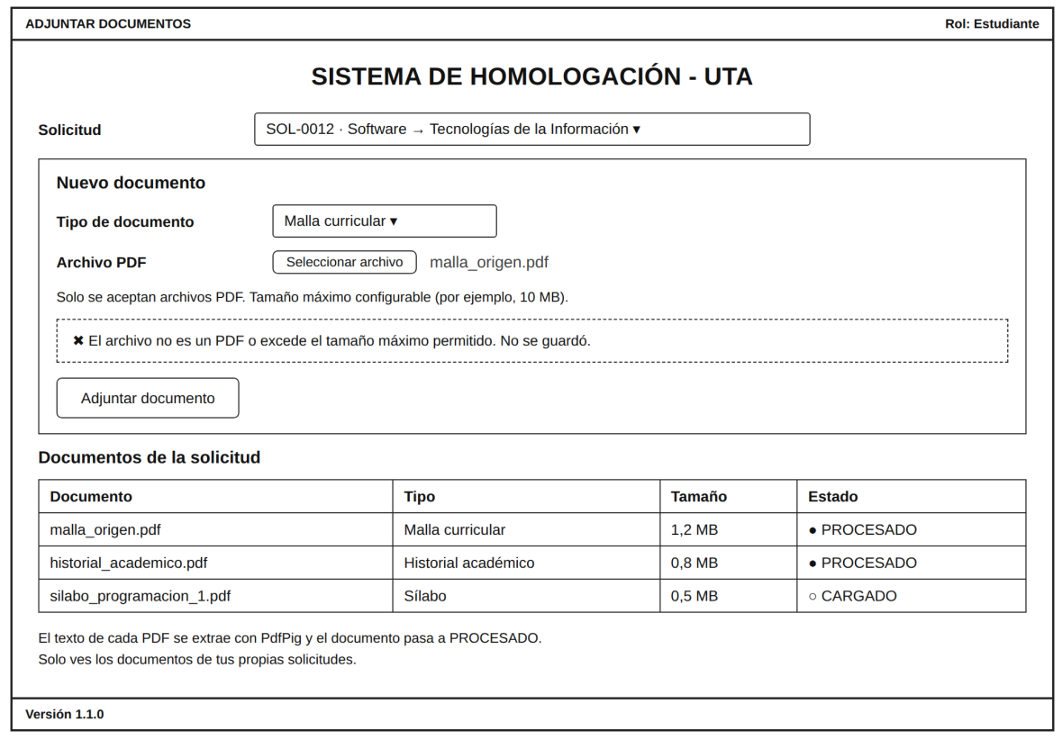
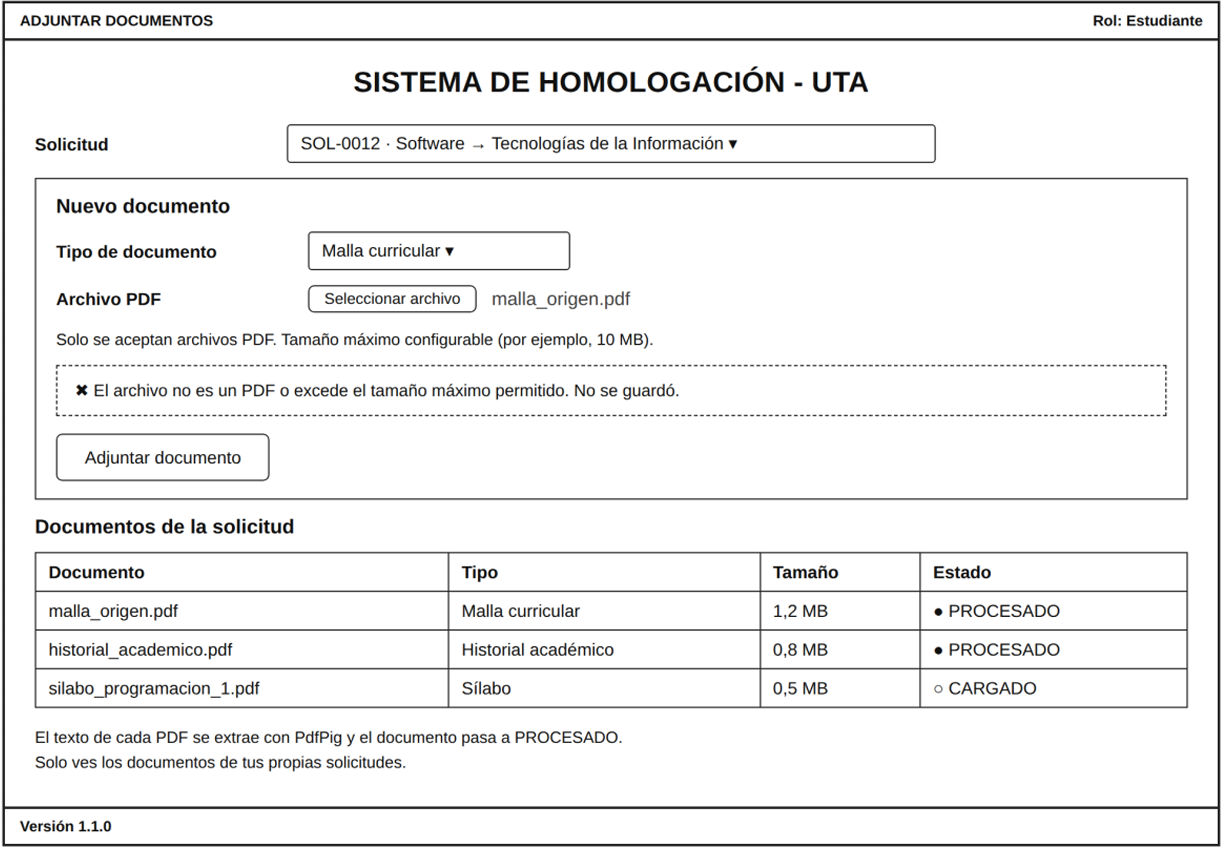
docs(frontend): recuperar mockup m-05 y actualizar readme

Changed region(s): [[0.0, 0.0, 0.9991, 0.9986]]

diff --git a/docs/mockups/README.md b/docs/mockups/README.md
@@ -6,5 +6,7 @@
 | M-02 | Inicio de sesión | HU-02 | /login |
 | M-03 | Carreras y mallas | HU-03 | /carreras |
 | M-04 | Nueva solicitud | HU-04 | /solicitudes/nueva |
+| M-05 | Adjuntar documentos | HU-05 | /adjuntar-documentos |
+| M-08 | Panel del Coordinador | HU-10 (TA-10.1) |
 
 La pestaña Mis solicitudes y la pantalla de inicio de cada rol se programan sin mockup propio (ver la planificación).
